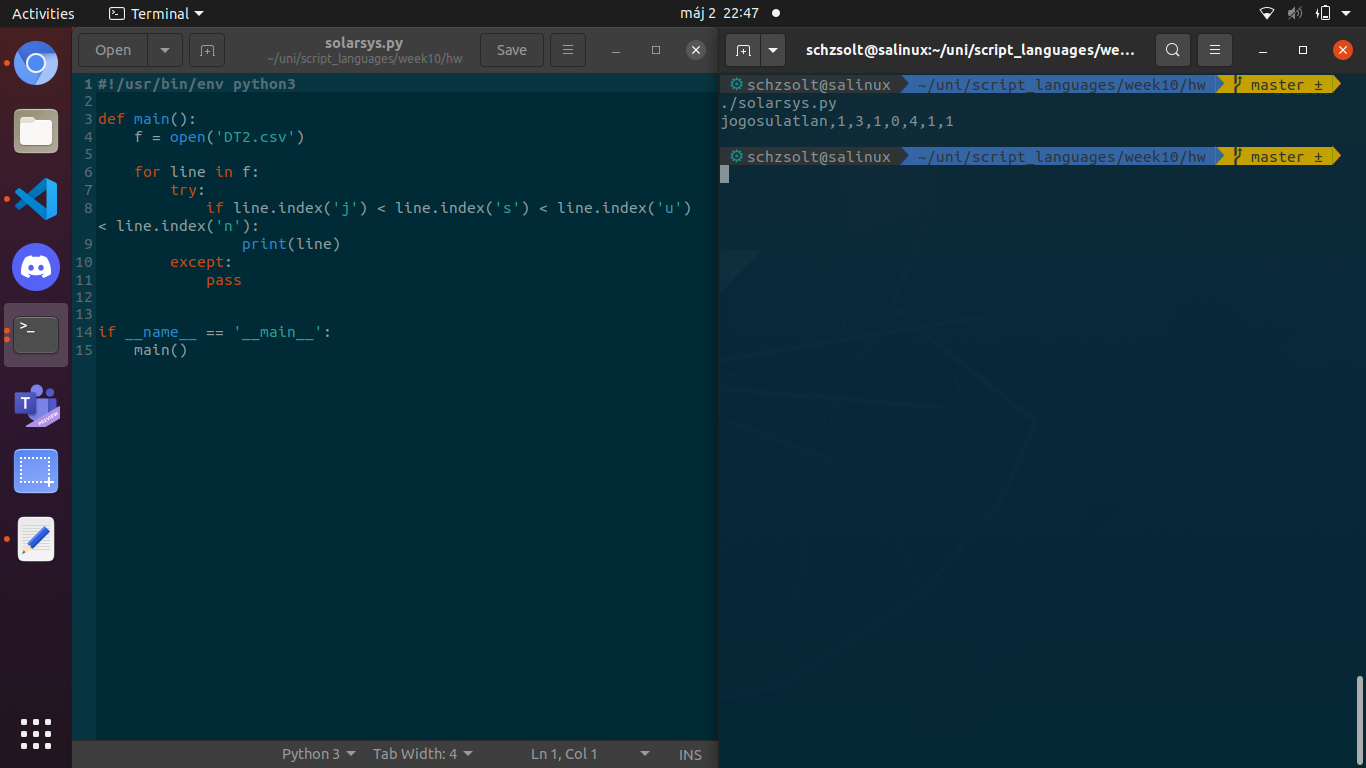
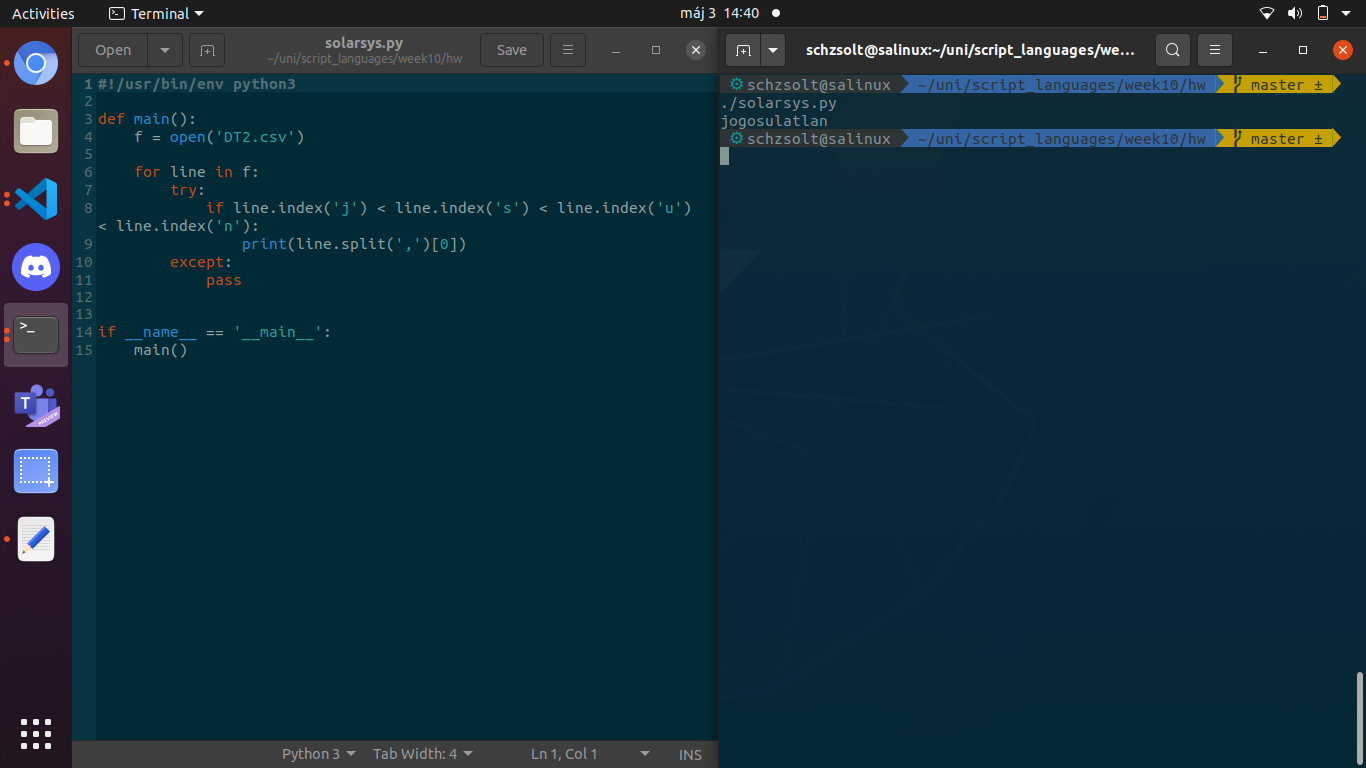
made solarsys output more understandable

diff --git a/week10/hw/solarsys.py b/week10/hw/solarsys.py
@@ -6,7 +6,7 @@ def main():
     for line in f:
         try:
             if line.index('j') < line.index('s') < line.index('u') < line.index('n'):
-                print(line)
+                print(line.split(',')[0])
         except:
             pass
 
